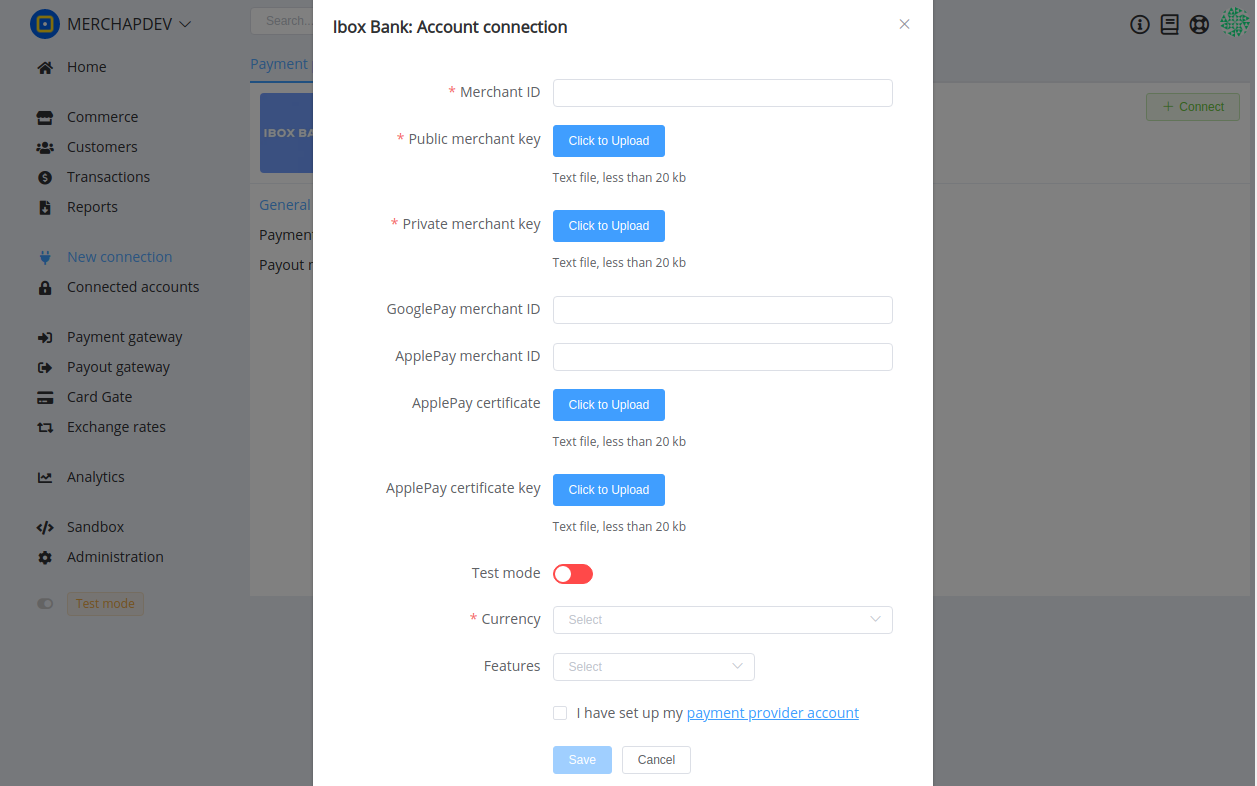
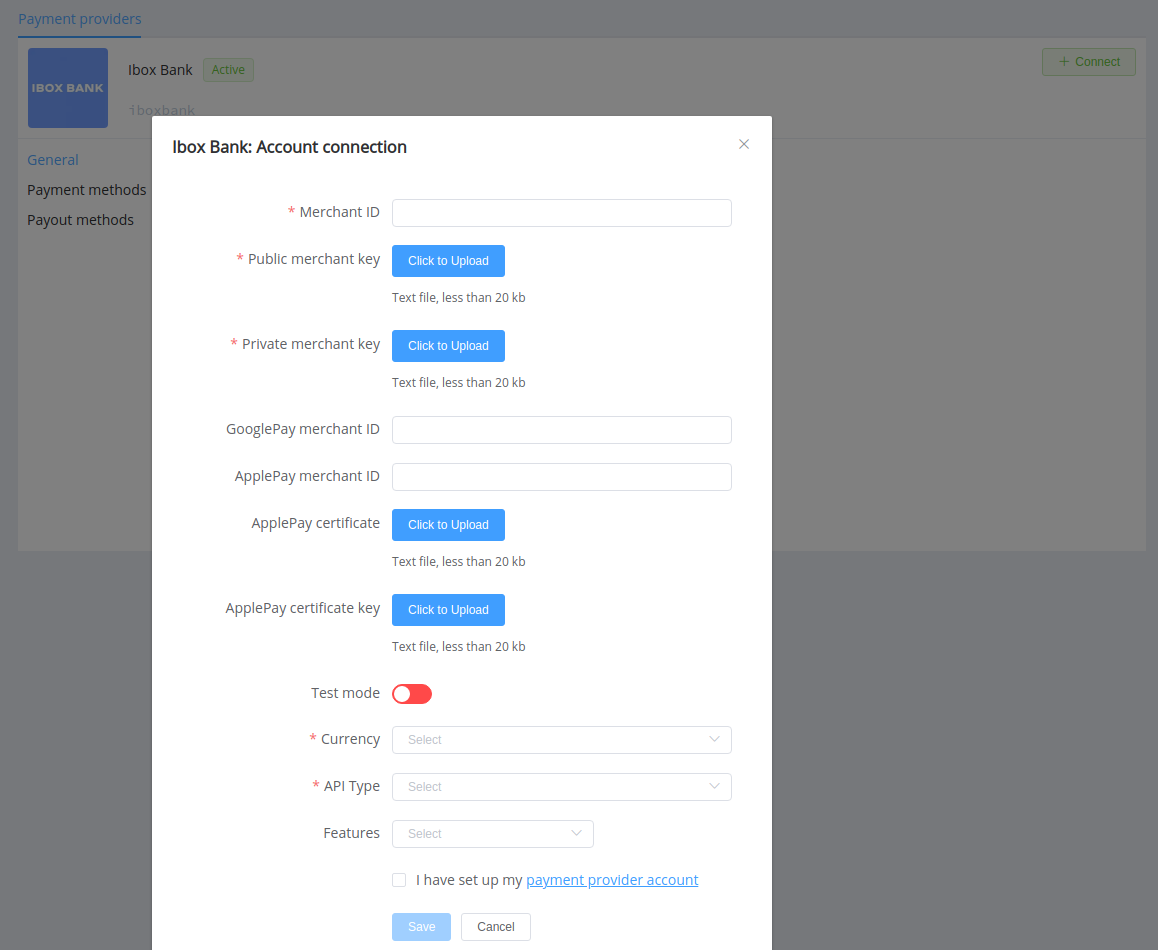
add RN June 9

diff --git a/docs/release-notes/v1.66-1.75.md b/docs/release-notes/v1.66-1.75.md
@@ -1,0 +1,250 @@
+<img src="/release-notes/images/paycore_illustration_newstyle-cool-cubes.jpg" alt="PayCore" style="width: 375px; float: left; padding-right: 15px;">
+
+# June 9, 2021
+
+<span style="font-size: 115%">[Corefy](https://corefy.com/) versions:<br>
+**1.75**, **1.74**, **1.73**, **1.72**, **1.71**, **1.70**, **1.69**, **1.68**, **1.67**, & **1.66**</span>
+<hr>
+<div style="text-align: right; font-size: 85%; font-style: italic;">by Dmytro Dziubenko, Chief Technology Officer</div>
+
+Cheery Greetings from the [Corefy](https://corefy.com/) team!
+
+This month our dev team has focused on optimising the transaction flow, among other things, updated handling and finalising the user authentication process (and has prepared a few more updates that we'd like to share).
+
+!!! caution ""
+
+    We've updated the white list of our IP addresses and specially mentioned those that will be deprecated soon. So [check it out](/integration/ips/#white-list-ip-addresses) to update the relevant IP lists wherever they are needed.
+
+## Highlights
+
+* [Commerce update](#commerce-update): implemented two-step transactions within an organisation
+* [Gateways updates](#gateways-updates): detailed charged back amounts and fees, added an option for the card validation field on the default HPP, and new metrics for card payment routing
+* [Customers database updates](#customers-database-updates): added options to control payments and payouts availability in the customer entry and two extra columns in the transactional report tables for the customers' data and metadata
+* Added an extra table for [Analytics queries](#analytics-update)
+* [Minor dashboard layout update](#dashboard-layout-update)
+* Performance improvements and bug fixes.
+
+## List of changes
+
+### Commerce update
+
+#### An additional stage for confirmation of transactions within an organisation
+
+As we announced in the [previous notes](/release-notes/v1.54-1.65/), we've updated transfers, deposits and withdrawals processing. Therefore, you should further review and confirm (or decline) prepared transactions within your organisation—or ask your teammates with relevant access about it.
+
+!!! tip ""
+    ![Step 1: create a deposit](images/v1.66-1.75/deposit-creation.png)
+    ![Step 2: approve the deposit](images/v1.66-1.75/deposit-approving.png)
+
+### Gateways updates
+
+#### Charged back amounts and fees are detailed
+
+The reconciliation process has become a bit more informative because we added `charged_back_amount` as a parameter to the API scheme for the Payment invoices, Payment requests, and Payments. It's also obtainable in Callbacks for payment invoices.
+
+And besides, charged back amounts and charged back fees are detailed in report and export tables.
+
+!!! example ""
+
+    === "Charged back amounts and fees in the export table"
+
+        ![Charged back amounts and fees in reports and exports](images/v1.66-1.75/charged-back-amount-in-reports.png)
+    
+    === "Code sample of the Payment invoice Callback"
+
+        ``` json hl_lines="43 73"
+
+            {
+            "data":{
+                "type":"payment-invoices",
+                "id":"cpi_i1T5VQhj5IbHHI1P",
+                "attributes":{
+                "status":"charged_back",
+                "serial_number":"i1T5VQhj5IbHHI1P",
+                "resolution":"ok",
+                "moderation_required":false,
+                "amount":55,
+                "payment_amount":55,
+                "currency":"USD",
+                "service_currency":"USD",
+                "reference_id":"Test Order #d49a4e0da458",
+                "test_mode":true,
+                "description":"Vendor 1",
+                "descriptor":null,
+                "fee":0, 
+                "deposit":55,
+                "processed":1622799052,
+                "processed_amount":55,
+                "refunded_amount":null,
+                "processed_fee":0,
+                "processed_deposit":55,
+                "metadata":[],
+                "flow_data":[],
+                "flow":"hpp",
+                "payment_flow":"charge",
+                "return_url":"https://example.com",
+                "return_urls":[],
+                "callback_url":"https://example.com",
+                "created":1622799042,
+                "updated":1622799067,
+                "payload":[],
+                "original_data":[],
+                "rrn":null,
+                "approval_code":null,
+                "reserved_amount":null,
+                "reserve_expires":null,
+                "unreserved":null,
+                "source":"platform_dashboard",
+                "callback_logs":[],
+                "charged_back_amount":55
+                },
+                "relationships":[],
+                "links":[]
+            },
+            "included":[
+                {
+                "type":"payment-requests",
+                "id":"prq_5ww1QATNAFv9LA7m",
+                "attributes":{
+                    "amount":55,
+                    "paid_amount":55,
+                    "amount_readonly":true,
+                    "currency":"USD",
+                    "reference_id":"cpi_i1T5VQhj5IbHHI1P",
+                    "status":"CHARGED_BACK",
+                    "description":"Vendor 1",
+                    "test_mode":true,
+                    "expires":1622802631,
+                    "created":1622799042,
+                    "processed":1622799052,
+                    "return_url":"https://com.paycore.io/return?id=cpi_i1T5VQhj5IbHHI1P",
+                    "callback_url":"https://example.com",
+                    "resolution":"OK",
+                    "payment_service":null,
+                    "metadata":{
+                    "fee":"0.00",
+                    "fee_strategy":"external"
+                    },
+                    "fields":[],
+                    "charged_back_amount":55
+                    },
+                "relationships":[]
+                    },
+                {
+                "type":"customers",
+                "id":"cus_HF0o1mHSWKzFEbCg",
+                "attributes":{
+                    "reference_id":"test",
+                    "email":"test@test.com",
+                    "name":"Test Customer",
+                    "phone":"44 20 7234 3456",
+                    "description":"A test user for test transactions",
+                    "created":1593120883,
+                    "metadata":[],
+                    "avatar":"",
+                    "archived":false,
+                    "processing_options":{
+                    "payment_enabled":true,
+                    "payout_enabled":true
+                    }
+                },
+                "relationships":{
+                    "commerce-account":{
+                    "data":{
+                        "type":"commerce-accounts",
+                        "id":"coma_FoXWOaBSEnUpvP4I"
+                                }
+                            }
+                        }
+                    }
+                ]
+            }
+        ```
+
+#### Default HPP (Checkout) theme update
+
+We've added a `card_number_length` option for validation of the card number field. You can use it with the default HPP theme if you allow entering card numbers with a length different from 16 digits (by default).
+
+The `card_number_length` option can obtain two **mutually exclusive** parameters:
+
+* `range`—an object with `min` and `max` keys and integer values for a range from the lowest to the highest value;
+* `allowedNumbers`—an array to list possible integer values.
+
+!!! example ""
+
+    === "A range from the lowest to the highest value"
+
+        ```json
+            "card_number_length":{
+                "range":{
+                    "min":12,
+                    "max":18
+                }
+        ```
+
+    === "A particular quantity of digits"
+
+        ```json
+            "card_number_length":{
+                "allowedNumbers":[14,16,18]
+            }
+        ```
+
+You can send HPP options via the Private API or set them up in the dashboard: *Commerce* section --> *Card Gateway*: *Options* --> *HPP*.
+
+!!! tip ""
+
+    ![Example of settings](images/v1.66-1.75/allowedNumbers.png)
+
+#### New metrics for card payment routing
+
+We've started collecting additional figures about card payments for the entire period of running the card vault, and now you can use them as conditions in payment routing schemes:
+
+* `Card successful payments` counts the number of successful payments by a card;
+* `Card all payments` numbers all payments by a card;
+* `Card turnover` calculates the total amount of successful payments by a card in the transaction currency.
+
+!!! tip ""
+    ![Routing attributes](images/v1.66-1.75/card-payments-metrics.png)
+    ![Routing example](images/v1.66-1.75/card-payments-metrics-in-routing.png)
+
+### Customers database updates
+
+#### New options to manage customers' profiles
+
+We've added options to control payments and payouts availability for a customer. Therefore, added the check whether the related option is enabled before processing the transaction.
+
+!!! tip ""
+    ![Edit the customer](images/v1.66-1.75/edit-customer-settings.png)
+
+Both options are enabled by default, so you should find and edit a customer entry to block income or outcome transactions for the specific customer.
+
+#### Customers' data in transactional reports
+
+From now on, there are two extra columns in the transactional report tables for the customers' data and metadata from the related Dashboard entries. We're sure that it comes in handy for sorting and analysing transactions.
+
+!!! example
+
+    ![Customer Data](images/v1.66-1.75/customers-data-in-reports.png)
+
+### Analytics update
+
+We've added an extra table for Analytics queries that deals with the organisation database. The `pa_accounts` table displays the data only from the card vault now, but we plan to extend it with other account types like cryptocurrency or mobile money wallets later.
+
+!!! tip ""
+    ![New Query screen](images/v1.66-1.75/pa-accounts.png)
+
+However, formatting queries with data from the table considers that all sensitive user data is hidden by masks.
+
+### Dashboard layout update
+
+A minor update may be brought to the attention: we've changed counters in the *Payout Schemes* section. Now they display the numbers of all linked schemes without splitting them into enabled and disabled. This data just wasn't informative for our users, so we removed it to increase the page loading speed.
+
+!!! tip ""
+    ![Counters](images/v1.66-1.75/counters.png)
+
+### Performance Improvements
+
+We've made various bug fixes, and now our products are better than they were.
+
+Stay tuned for the following updates!

diff --git a/docs/release-notes/index.md b/docs/release-notes/index.md
@@ -6,6 +6,15 @@
 
 This changelog lists releases by date and version number along with associated changes.
 
+### [June 9, 2021 (versions 1.75, 1.74, 1.73, 1.72, 1.71, 1.70, 1.69, 1.68, 1.67, & 1.66)](v1.66-1.75/)
+
+* [Commerce update](v1.66-1.75/#commerce-update): implemented two-step transactions within an organisation
+* [Gateways updates](v1.66-1.75/#gateways-updates): detailed charged back amounts and fees, added an option for the card validation field on the default HPP, and new metrics for card payment routing
+* [Customers database updates](v1.66-1.75/#customers-database-updates): added options to control payments and payouts availability in the customer entry and two extra columns in the transactional report tables for the customers' data and metadata
+* Added an extra table for [Analytics queries](v1.66-1.75/#analytics-update)
+* [Minor dashboard layout update](v1.66-1.75/#dashboard-layout-update)
+* Performance improvements and bug fixes.
+
 ### [May 13, 2021 (versions 1.65, 1.64, 1.63, 1.62, 1.61, 1.60, 1.59, 1.58, 1.57, 1.56, 1.55, & 1.54)](v1.54-1.65/)
 
 * [Commerce updates](v1.54-1.65/#commerce-updates): expanded access settings for commerce accounts and operations, added `merchant_profile` object to the Commerce settings and request creation and options to control Saved cards access scope
@@ -14,12 +23,12 @@ This changelog lists releases by date and version number along with associated c
 * [Reports optimising](v1.54-1.65/#reports-optimising)
 * [Receipt Addon update](v1.54-1.65/#addons-update): receipts generating for Payout invoices
 
-### [April 2, 2021 (versions 1.53, 1.52, 1.51, 1.50, 1.49, 1.48, 1.47, 1.46, 1.45, & 1.44)](v1.44-1.53/)
+### [April 2, 2021 (versions 1.53, 1.52, 1.51, 1.50, 1.49, 1.48, 1.47, 1.46, & 1.45)](v1.45-1.53/)
 
-* [Processing supplements](v1.44-1.53/#processing-supplements): added partial statuses for payments' refunds and chargebacks, and an option to skip the verify stage on payouts
-* [Card Gate](v1.44-1.53/#card-gate-update): added possibility to update features for connected merchant accounts in the Dashboard
-* [Merchant Portal](v1.44-1.53/#merchant-portal-updates): configuration and exports updates
-* [Performance improvements](v1.44-1.53/#performance-improvements)
+* [Processing supplements](v1.45-1.53/#processing-supplements): added partial statuses for payments' refunds and chargebacks, and an option to skip the verify stage on payouts
+* [Card Gate](v1.45-1.53/#card-gate-update): added possibility to update features for connected merchant accounts in the Dashboard
+* [Merchant Portal](v1.45-1.53/#merchant-portal-updates): configuration and exports updates
+* [Performance improvements](v1.45-1.53/#performance-improvements)
 
 ### [March 3, 2021 (versions 1.44, 1.43, 1.42, 1.41, 1.40, 1.39, 1.38, & 1.37)](v1.37-1.44/)
 

diff --git a/docs/release-notes/v1.45-1.53.md b/docs/release-notes/v1.45-1.53.md
@@ -3,7 +3,7 @@
 # April 2, 2021
 
 <span style="font-size: 115%">[Corefy](https://corefy.com/) versions:<br>
-**1.53**, **1.52**, **1.51**, **1.50**, **1.49**, **1.48**, **1.47**, **1.46**, **1.45**, & **1.44**</span>
+**1.53**, **1.52**, **1.51**, **1.50**, **1.49**, **1.48**, **1.47**, **1.46**, & **1.45**</span>
 <hr>
 <div style="text-align: right; font-size: 85%; font-style: italic;">by Dmytro Dziubenko, Chief Technology Officer</div>
 
@@ -28,7 +28,7 @@ We added `partially_charged_back` along with  `partially_refunded` to the paymen
 
 !!! info "Payment statuses"
 
-    ![Updated scheme](images/v1.44-1.53/payment-invoice-flow.png)
+    ![Updated scheme](images/v1.45-1.53/payment-invoice-flow.png)
 
 #### For payouts
 
@@ -37,7 +37,7 @@ The requisite verification stage is an optional part of a transaction flow. But 
 Find this option in *Commerce account settings* --> *Payouts* --> *Payout options* and use with caution.
 
 !!! info ""
-    ![Commerce Options: Skip verify](images/v1.44-1.53/skip-verify-option.png)
+    ![Commerce Options: Skip verify](images/v1.45-1.53/skip-verify-option.png)
 
 ### Card Gate update
 
@@ -45,7 +45,7 @@ Suppose you didn't specify some feature at connection, but they are available fo
 
 !!! info ""
 
-    ![Card Gate's merchant account update](images/v1.44-1.53/merchant-accounts-features.png)
+    ![Card Gate's merchant account update](images/v1.45-1.53/merchant-accounts-features.png)
 
 ### Merchant Portal updates
 
@@ -60,7 +60,7 @@ The supported file formats:
 
 !!! info ""
 
-    ![Logo and favicon uploader](images/v1.44-1.53/merchant-portal-logo-upload.png)
+    ![Logo and favicon uploader](images/v1.45-1.53/merchant-portal-logo-upload.png)
 
 #### Export usage update
 

diff --git a/docs/connectors/index.md b/docs/connectors/index.md
@@ -112,7 +112,7 @@ Click on the name of the desired connector and follow the link to the step-by-st
 | <img src="https://static.openfintech.io/payment_providers/rbkmoney/logo.png?w=70" width="70px">  | [RBK Money](rbkmoney/) | H2H connection, Payouts, Account balances   | EUR, RUB, USD |
 | <img src="https://static.openfintech.io/payment_providers/royalpay/logo.svg?w=90" width="90px"> | [Royal Pay](royalpay/) | H2H connection, Payouts, Account balances | RUB |
 | <img src="https://static.openfintech.io/payment_providers/russianstandardbank/logo.png?w=70" width="70px">  | [Russian Standard Bank](russianstandardbank/) | H2H connection | RUB |
-| <img src="https://static.openfintech.io/payment_providers/safecharge/logo.svg?w=90" width="90px"> | [SafeCharge](safecharge/) | H2H connection, Payouts | AUD, CAD, EUR, GBP, USD |
+| <img src="https://static.openfintech.io/payment_providers/safecharge/logo.svg?w=90" width="90px"> | [SafeCharge](safecharge/) | H2H connection, Payouts | AUD, CAD, CHF, EUR, GBP, PLN, USD  |
 | <img src="https://static.openfintech.io/payment_providers/satchelpay/logo.svg?w=90" width="90px"> | [SatchelPay](satchelpay/)  | Payouts, Account balances | [according to the provider account settings] |
 | <img src="https://static.openfintech.io/payment_providers/sdkfinance/logo.png?w=80" width="80px">  | [SDK.finance](sdkfinance/) | Payments | UAH |
 | <img src="https://static.openfintech.io/payment_providers/selcom/logo.png?w=70" width="70px">  | [Selcom](selcom/) | Payments, Payouts, Account balances | [according to the provider account settings] |

diff --git a/docs/connectors/iboxbank/index.md b/docs/connectors/iboxbank/index.md
@@ -22,8 +22,9 @@ Credentials that have to be issued from your Ibox Bank account manager:
 * Point ID
 * Service ID
 * Public IboxBank Key
+* Type of integration (Acquiring or Card-to-account transfer flow)
 
-Upon registration with the system you will be able to create the necessary quantity of payment points and generate Private keys for each points.
+Upon registration with the system, you will be able to create the necessary quantity of payment points and generate Private keys for each points.
 
 ???+ hint
     ![Create a new Point](images/point-creation.png)
@@ -93,7 +94,7 @@ Enter your Merchant ID and upload files with the Public IboxBank key and Private
 
     Specify the Apple Pay Merchant ID and upload files with the certificate (`server.pem`) and the certificate key (`server.key`). And be sure you define `apple_pay` as a feature in the relevant field.
 
-Select Test or Live mode according to the type of account to connect with Ibox Bank.
+Select Test or Live mode according to the type of account to connect with Ibox Bank. Choose the API type.
 
 Choose Currency and Features. You can set these parameters according to available currencies and features for your Ibox Bank account, but it's necessary to check details of the connection with your {{custom.company_name}} account manager.
 
